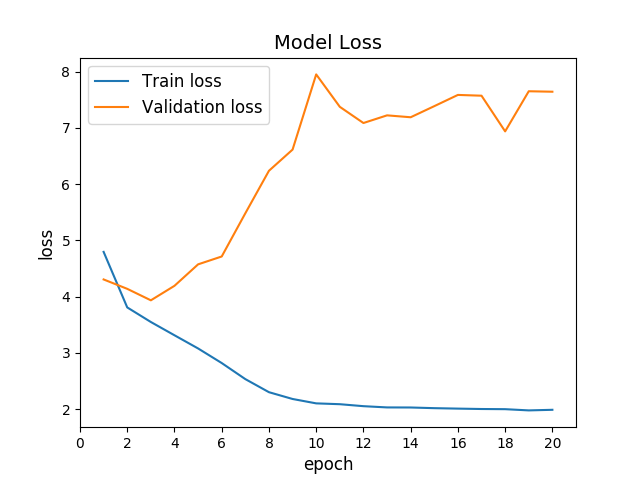
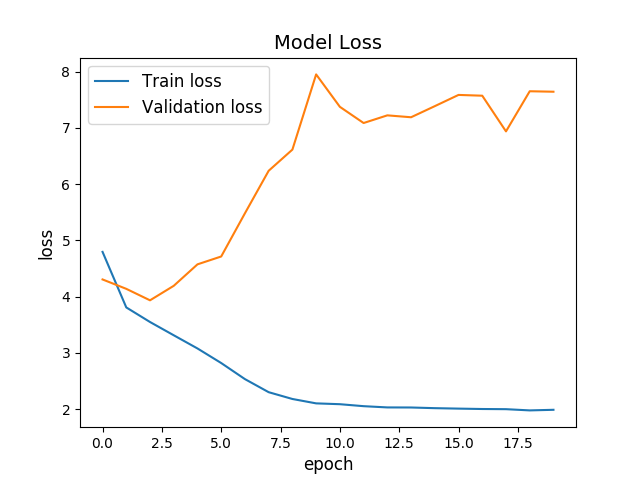
Updated some plots and the report again.

diff --git a/doc/LaTeX/report.tex b/doc/LaTeX/report.tex
@@ -154,31 +154,28 @@ We also added some additional preprocessing to the dataset by subtracting the me
 Manually tuning these parameters we found some minor improvements, which is displayed in figure \ref{fig:loss_improved_1}. In this version, we took model D from table \ref{table:3_configurations} and added an $L_{2}$ regularization term of $1*10{-3}$ after each convolutional and fully connected layer, and also increased the number of fully connected layers to 3. In these fully connected layers we increased the dropout to 70\%.
 
 
-The new model showed a slight improved convergence of the validation loss, but showed an atrocious learning capability due to the high loss values, and thus we found that adding batch normalization, dropout in addition to $L_{2}$ regularization caused the network to shift over to the other side of the spectrum, where instead of overfitting, it had problems learning things. We decided to remove dropout that occurs after the fully connected layers, and instead rely on the $L_{2}$ regularization and add a decay to the learning rate of the network. The decay rate was set to $1*10{-6}$. The Adam solver was initialized with a learning rate of $1*10{-2}$, and we now let it train for longer, 60 epochs in total.
+The new model showed a slight improved convergence of the validation loss, but showed an atrocious learning capability due to the high loss values, and thus we found that adding batch normalization, dropout in addition to $L_{2}$ regularization caused the network to shift over to the other side of the spectrum, where instead of overfitting, it had problems learning things. We decided to remove dropout that occurs after the fully connected layers, and instead rely on the $L_{2}$ regularization and add a decay to the learning rate of the network. The decay rate was set to $1*10^{-6}$. The Adam solver was initialized with a learning rate of $1*10^{-2}$, and we now let it train for longer, 60 epochs in total.
 
 \subsection{Final results}
 
 
-
-
-
-The final results found was achieved with two different model that has the structure presented in table \ref{table:final2configs}. We tested two different approaches: Model E kept the fully connected layers in the end and combined with L2 regularization to help it prevent overfitting to some extent. During our testing it proved a steady learning the 20 first epochs, then it stagnates and begin to overfit. Ideally if we had more time another run with more stricter regularization hopefully would prove more consistent in learning.
+The final results found was achieved with two different models that has the structure presented in table \ref{table:final2configs}. We tested two different approaches: Model E kept the fully connected layers in the end and combined with L2 regularization to help it prevent overfitting to some extent. During our testing it proved a steady learning the 20 first epochs, then it stagnates and begin to overfit. Ideally if we had more time another run with more stricter regularization hopefully would prove more consistent in learning.
 
 \input{snippets/final2configs}
 
 \input{snippets/final_plots}
 
-The top-1 validation accuracy was 25\% and top-5 validation accuracy 50\% for model E. Plot \ref{fig:final_plots_e} (a) represents training and validation loss, even though there are fluctuations the validation loss initially follows the training loss nicely, the expanding gap in the higher epochs may as mentioned be countered by increasing regularization. Plot \ref{fig:final_plots_e} (b) illustrates the evolution of accuracy which, in conjunction with the loss, converges towards the maximal accuracy found.
+The top-1 validation accuracy was $25\%$ and top-5 validation accuracy $50\%$ for model E. Plot \ref{fig:final_plots_e} (a) represents training and validation loss, even though there are fluctuations the validation loss initially follows the training loss nicely, the expanding gap in the higher epochs may as mentioned be countered by increasing regularization. Plot \ref{fig:final_plots_e} (b) illustrates the evolution of accuracy which, in conjunction with the loss, converges towards the maximal accuracy found.
 
 
-As a final network, model F,  we attempted to add some additional reguralization in an attempt to reduce the degree of overfitting to the training data that occured. The $L_{2}$ regularization term was increased to $5*10^{-3}$, and we opted to remove the fully connected layers between the last max-pooling layer and the output layer, and the initial learning rate of the Adam algorithm was reduced to $1*10{-3}$. We let this network train for even longer, 100 epochs in total.
+As a final network, model F,  we attempted to add some additional reguralization in an attempt to reduce the degree of overfitting to the training data that occured. The $L_{2}$ regularization term was increased to $5*10^{-3}$, and we opted to remove the fully connected layers between the last max-pooling layer and the output layer, and the initial learning rate of the Adam algorithm was reduced to $1*10^{-3}$. We let this network train for even longer, 100 epochs in total.
 
 \input{snippets/final_plots2}
 
-The training of the network shows less signs of overfitting, but the accuracy ended at a top 1 $VAL$ validation accuracy and a top 5 $val5$ accuracy. It is likely that the network can be further optimized to still reguarlize enough to not overfit, but that would require additional experimentation.
+The training of the network shows less signs of overfitting, but the accuracy ended at a top 1 validation accuracy of  $24\%$ and a top 5 vaildation accuracy of  $48\%$. It is likely that the network can be further optimized to still reguarlize enough to not overfit, but that would require additional experimentation.
 
 
-Summing up all tested models during the experiments, the results of the these models can be found in table \ref{table:accuracy} presented with top-1 accuracy and top-5 accuracy. It's noteworthy that our last model performed worse than the earlier in terms of accuracy. However, we reason that the last model (E) manifested a more consistent behavior during many epochs of training. That is, if model (D) had been trained further is would faster overfit to the training data and generate a non generalizable network. Model (E) on the other hand manifests consistent learning for a longer duration implying minor tweaking of learning parameters may produce a more optimal network. \\
+Summing up all tested models during the experiments, the results of the these models can be found in table \ref{table:accuracy} presented with top-1 accuracy and top-5 accuracy. It's noteworthy that our last two model performed worse than the earlier in terms of accuracy. However, we reason that the last models (E) and (F) had a more consistent behavior during many epochs of training. That is, if model (D) had been trained further is would faster overfit to the training data and generate a non generalizable network. Model (E) and (F) on the other hand manifests consistent learning for a longer duration implying minor tweaking of learning parameters may produce a more optimal network. \\
 
 \input{snippets/accuracy_table}
 
@@ -209,10 +206,10 @@ Ignoring all gray-scale images in training could have an slight impact on our te
 
 Looking at our result we can see that overfitting is an major issue for our network.
 All figures in \ref{fig:architecture} show that the validation loss increases in the final epochs of the models which clearly indicates overfitting.
-To combat this issue more regularization was added in the model and the adaption shows results of less overfitting seen in figure \ref{fig:final_plots}.
+To combat this issue more regularization was added in the model and the adaption shows results of less overfitting seen in figure 6 and 7.
 From table \ref{table:accuracy} it is clear that adding regularization and thus increasing the complexity also increased the models validation accuracy.
 
-If we would continue the implementations the next step would be to add dropout to model E and balance these parameters, maybe by broadly searching a parameter space then progressing to more fine coarse searches, to find optimal parameters of this model.
+If we would continue the implementations the next step would be further try to balance the parameters between learning and regularization, allowing to efficiently train over more epochs without overfitting, perhaps by broadly searching a parameter space then progressing to more fine coarse searches, to find optimal parameters of this model.
 
 % As mentioned in the previous section the test accuracy would perhaps have been slightly higher if we would have regarded the fact that some images are in gray-scale.
 % Around 2\% of the test images and validation images are gray-scale and we assume that the percentage of gray-scale images is the same in the test data.

diff --git a/src/plotter.py b/src/plotter.py
@@ -12,18 +12,13 @@ def plotLoss(history, model_name, fontsize=12, titlefontsize = 14, xaxis=None):
 
     pyplot.switch_backend('agg')
     xaxis = [i for i in range(1,len(history['loss']))] + [len(history['loss'])]
-    pyplot.plot(xaxis,history['loss'])
-    pyplot.plot(xaxis,history['val_loss'])
+    pyplot.plot(history['loss'])
+    pyplot.plot(history['val_loss'])
     pyplot.title('Model Loss', fontsize=titlefontsize)
     pyplot.xlabel('epoch',fontsize=fontsize)
     pyplot.ylabel('loss',fontsize=fontsize)
     pyplot.legend(["Train loss", "Validation loss"], loc='best', fontsize=fontsize)
 
-    locator = matplotlib.ticker.MultipleLocator(2)
-    pyplot.gca().xaxis.set_major_locator(locator)
-    formatter = matplotlib.ticker.StrMethodFormatter("{x:.0f}")
-    pyplot.gca().xaxis.set_major_formatter(formatter)
-    pyplot.xlim(0, 21)
 
     pyplot.savefig('testPlots/lossPlots/' + model_name+"_loss")
     pyplot.close()
@@ -33,18 +28,13 @@ def plotTop1Acc(history, model_name,fontsize=12,titlefontsize = 14, xaxis=None):
 
     pyplot.switch_backend('agg')
     xaxis = [i for i in range(1,len(history['acc']))] + [len(history['loss'])]
-    pyplot.plot(xaxis,history['acc'])
-    pyplot.plot(xaxis,history['val_acc'])
+    pyplot.plot(history['acc'])
+    pyplot.plot(history['val_acc'])
     pyplot.title('Top 1 Model Accuracy', fontsize=titlefontsize)
     pyplot.xlabel('Epoch', fontsize=fontsize)
     pyplot.ylabel('Accuracy', fontsize=fontsize)
     pyplot.legend(["Train accuracy", "Validation accuracy"], loc='best', fontsize=fontsize)
 
-    locator = matplotlib.ticker.MultipleLocator(2)
-    pyplot.gca().xaxis.set_major_locator(locator)
-    formatter = matplotlib.ticker.StrMethodFormatter("{x:.0f}")
-    pyplot.gca().xaxis.set_major_formatter(formatter)
-    pyplot.xlim(0, 21)
 
 
 
@@ -57,18 +47,13 @@ def plotTop5Acc(history, model_name,fontsize=12,titlefontsize = 14, xaxis=None):
 
     pyplot.switch_backend('agg')
     xaxis = [i for i in range(1,len(history['top_k_categorical_accuracy']))] + [len(history['top_k_categorical_accuracy'])]
-    pyplot.plot(xaxis,history['top_k_categorical_accuracy'])
-    pyplot.plot(xaxis,history['val_top_k_categorical_accuracy'])
+    pyplot.plot(history['top_k_categorical_accuracy'])
+    pyplot.plot(history['val_top_k_categorical_accuracy'])
     pyplot.title('Top 5 Model Accuracy', fontsize=titlefontsize)
     pyplot.xlabel('Epoch', fontsize=fontsize)
     pyplot.ylabel('Accuracy', fontsize=fontsize)
     pyplot.legend(["Train accuracy", "Validation accuracy"], loc='best', fontsize=fontsize)
 
-    locator = matplotlib.ticker.MultipleLocator(2)
-    pyplot.gca().xaxis.set_major_locator(locator)
-    formatter = matplotlib.ticker.StrMethodFormatter("{x:.0f}")
-    pyplot.gca().xaxis.set_major_formatter(formatter)
-    pyplot.xlim(0, 21)
 
 
     pyplot.savefig('testPlots/top5accPlots/' + model_name+"_top5")
